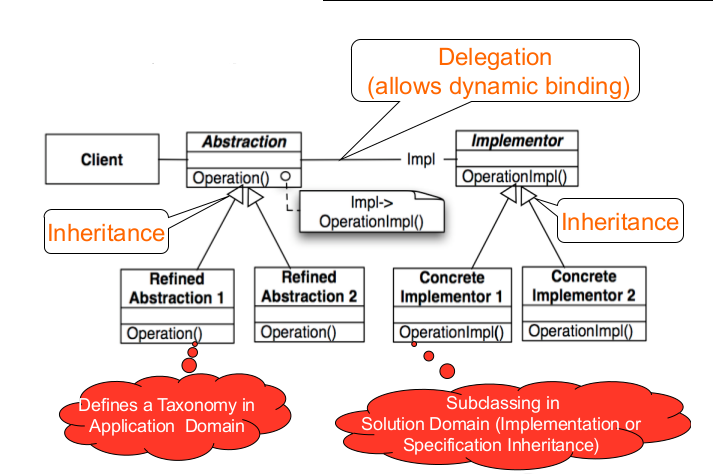
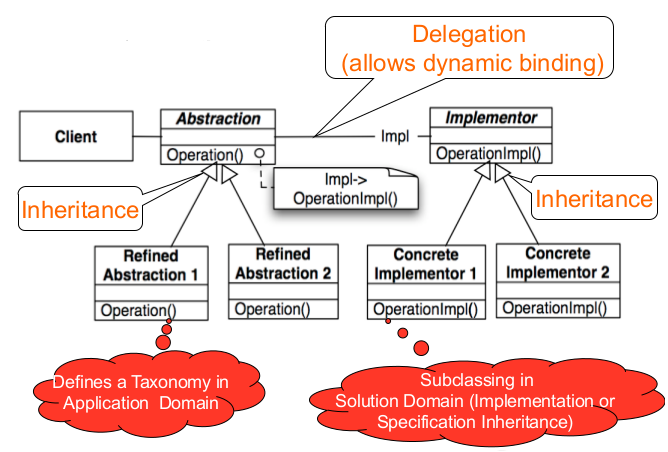
moving images to figures in design patterns

diff --git a/chapters/design_patterns.tex b/chapters/design_patterns.tex
@@ -38,29 +38,40 @@ Connects incompatible components to for example
   \item Convert an interface to another interface (maybe needed by an API call)
 \end{itemize}
 
-Structure:\\
-\includegraphics[width=\linewidth]{images/pattern_adapter.png}
+\begin{figure}[h]
+	\centering
+	\includegraphics[width=\linewidth]{images/pattern_adapter.png}
+	\caption{Structure of Adapter Pattern/Wrapper}
+\end{figure}
 \newpage
 
 \subsubsection{Bridge Pattern}
-Allows to delay the assignment of an implementation of an interface from compile to run time.\\
-Structure:\\
-\includegraphics[width=\linewidth]{images/pattern_bridge.png}
+Allows to delay the assignment of an implementation of an interface from compile to run time.
 The \textbf{degenerated bridge pattern} is the same as the bridge pattern without the taxonomy in the application domain.
+\begin{figure}[h]
+	\centering
+	\includegraphics[width=\linewidth]{images/pattern_bridge.png}
+	\caption{Structure of Adapter Pattern}
+\end{figure}
 \newpage
 
 \subsubsection{Proxy Pattern/Caching}
-The proxy pattern allows to defer object creation and object initialization to the time you need the object (Remote Proxy (Caching), Substitute (Virtual Proxy), Protection Proxy (Access control/Firewall)).\\
-Structure:\\
-\includegraphics[width=\linewidth]{images/pattern_proxy.png}
-The client never calls request() in RealSubject, instead it always calls the method in Proxy which might delegate it to the RealSubject.
+The proxy pattern allows to defer object creation and object initialization to the time you need the object (Remote Proxy (Caching), Substitute (Virtual Proxy), Protection Proxy (Access control/Firewall)).
+\begin{figure}[h]
+	\centering
+	\includegraphics[width=\linewidth]{images/pattern_proxy.png}
+	\caption{Structure of Proxy Pattern/Caching}{\textit{The client never calls \texttt{request()} in \texttt{RealSubject}, instead it always calls the method in \texttt{Proxy} which might delegate it to \texttt{RealSubject}.}}
+\end{figure}
 \newpage
 
 \subsubsection{Composite Pattern}
 The composite pattern models tree structures that represent part-whole hierarchies with arbitrary depth and width.
-It lets the client treat individual objects and groups uniformly. \\
-Structure:\\
-\includegraphics[width=\linewidth]{images/pattern_composite.png}
+It lets the client treat individual objects and groups uniformly.
+\begin{figure}[h]
+	\centering
+	\includegraphics[width=\linewidth]{images/pattern_composite.png}
+	\caption{Structure of Composite Pattern}
+\end{figure}
 \newpage
 
 
@@ -68,17 +79,23 @@ Structure:\\
 Behavioral patterns identify common communication patterns between objects and realize these patterns. By doing so, these patterns increase flexibility in carrying out this communication. %from wikipedia
 
 \subsubsection{Strategy Pattern}
-Suited for situations where different algorithms are available for a problem (e.g. sorting).\\
-Structure:\\
-\includegraphics[width=\linewidth]{images/pattern_strategy.png}
-A strategy is chosen on \textbf{runtime} by the Policy class before the client calls executeAlgorithm.
+Suited for situations where different algorithms are available for a problem (e.g. sorting).
+\begin{figure}[h]
+	\centering
+	\includegraphics[width=\linewidth]{images/pattern_strategy.png}
+	\caption{Structure of Strategy Pattern}{\textit{A strategy is chosen on \textbf{runtime} by the \texttt{Policy} class before the client calls \texttt{executeAlgorithm()}}}
+\end{figure}
 \newpage
 
 \subsubsection{State Pattern}
 Dependent on the current state of a system, an action should do different things (e.g. TCP open, close).
-The state pattern avoids many if else statements and is flexible to add more cases/states.\\
-Structure:\\
-\includegraphics[width=\linewidth]{images/pattern_state.png}
+The state pattern avoids many if else statements and is flexible to add more cases/states.
+\begin{figure}[h]
+	\centering
+	\includegraphics[width=\linewidth]{images/pattern_state.png}
+	\caption{Structure of State Pattern}
+\end{figure}
+\newline %TODO what is going on here?
 Problem: Where are state transactions handled? (in the exercise of the lecture in the states)
 \newpage
 
@@ -90,34 +107,51 @@ There are three variants for maintaining consistency:
   \item \textbf{Push-Update Notification:} The publisher also sends the state that has changed
   \item \textbf{Pull Notification:} A subscriber inquires about the state of the publisher
 \end{itemize}
-Structure:\\
-\includegraphics[width=\linewidth]{images/pattern_observer.png}
+
+\begin{figure}[h]
+	\centering
+	\includegraphics[width=\linewidth]{images/pattern_observer.png}
+	\caption{Structure of Observer Pattern}
+\end{figure}
 \newpage
 
 \subsubsection{Model View Controller Pattern}
 The model-view-controller architectural style decouples data access and data representation.
-The view handles the data representation, the model the data access and the controller handles the communication between the other two.\\
-Structure:\\
-\includegraphics[width=\linewidth]{images/pattern_mvc.png}
+The view handles the data representation, the model the data access and the controller handles the communication between the other two.\newline
+
 In the \textbf{pull variant} the connection between the controller and the view is removed.
-In this variant the view asks the model for the data explicitly.\\
+In this variant the view asks the model for the data explicitly.
+
 In the \textbf{push notification variant} both the connection between the view and the model and controller respectively are removed.
-When a change in the model occurs, the view and the controller are updated via the observer pattern.
+When a change in the model occurs, the view and controller are updated via the observer pattern.
+
+\begin{figure}[h]
+	\centering
+	\includegraphics[width=\linewidth]{images/pattern_mvc.png}
+	\caption{Structure of Model View Controller Pattern}
+\end{figure}
+
 \newpage
 
 \subsubsection{Command Pattern}
-The command pattern is used for designing user interfaces with multiple commands without using multiple if statements (if(command == x) {...} else if(command == y) ...).
-It can be used to make menus reusable across applications.\\
-Structure:\\
-\includegraphics[width=\linewidth]{images/pattern_command.png}
-Commands as classes allow command histories and thus undo and redo.\\
-Common Applications:
-\begin{itemize}
+The command pattern is used to design user interfaces with multiple commands without using multiple \texttt{if}-statements (i.e. \texttt{if(command == x) {...} else if(command == y) ...}).
+It can be used to make menus reusable across applications.\newline
+
+Implementing Commands as classes allows command histories and thus \textit{undo} and \textit{redo} operations.\newline
+
+\textbf{Common Applications:}
+\begin{itemize}[topsep=5pt, itemsep=0pt]
   \item \textbf{Command Manager} Central repository for all commands
   \item \textbf{Redo/Undo Manager}
   \item \textbf{Queue} Holds commands until others objects are ready to do something with them
   \item \textbf{Dispatcher} (e.g. keyboard event loop)
 \end{itemize}
+
+\begin{figure}[h]
+	\centering
+	\includegraphics[width=\linewidth]{images/pattern_command.png}
+	\caption{Structure of Command Pattern}
+\end{figure}
 \newpage
 
 
@@ -125,14 +159,21 @@ Common Applications:
 Creational patterns allow a simplified view from complex instantiation processes and make the system independent from the way its objects are created, composed and represented.
 
 \subsubsection{Factory Pattern}
-A factory class handles the instantiation of objects inheriting from one superclass depending on a keyword or value.\\
-Structure:\\
-\includegraphics[width=\linewidth]{images/pattern_factory.png}
+A factory class handles the instantiation of objects inheriting from one superclass depending on a keyword or value.
+\begin{figure}[h]
+	\centering
+	\includegraphics[width=\linewidth]{images/pattern_factory.png}
+	\caption{Structure of Factory Pattern}
+\end{figure}
 \newpage
 
 \subsubsection{Abstract Factory Pattern}
 The abstract factory pattern is used to instantiate or initialize an object consisting of more subparts.
 Every implementation of the abstract factory creates a set of components consisting of a variant of every part of the whole object.
-Structure:\\
-\includegraphics[width=\linewidth]{images/pattern_abstract_factory.png}
+
+\begin{figure}[h]
+	\centering
+	\includegraphics[width=\linewidth]{images/pattern_abstract_factory.png}
+	\caption{Structure of Abstract Factory Pattern}
+\end{figure}
 \newpage
